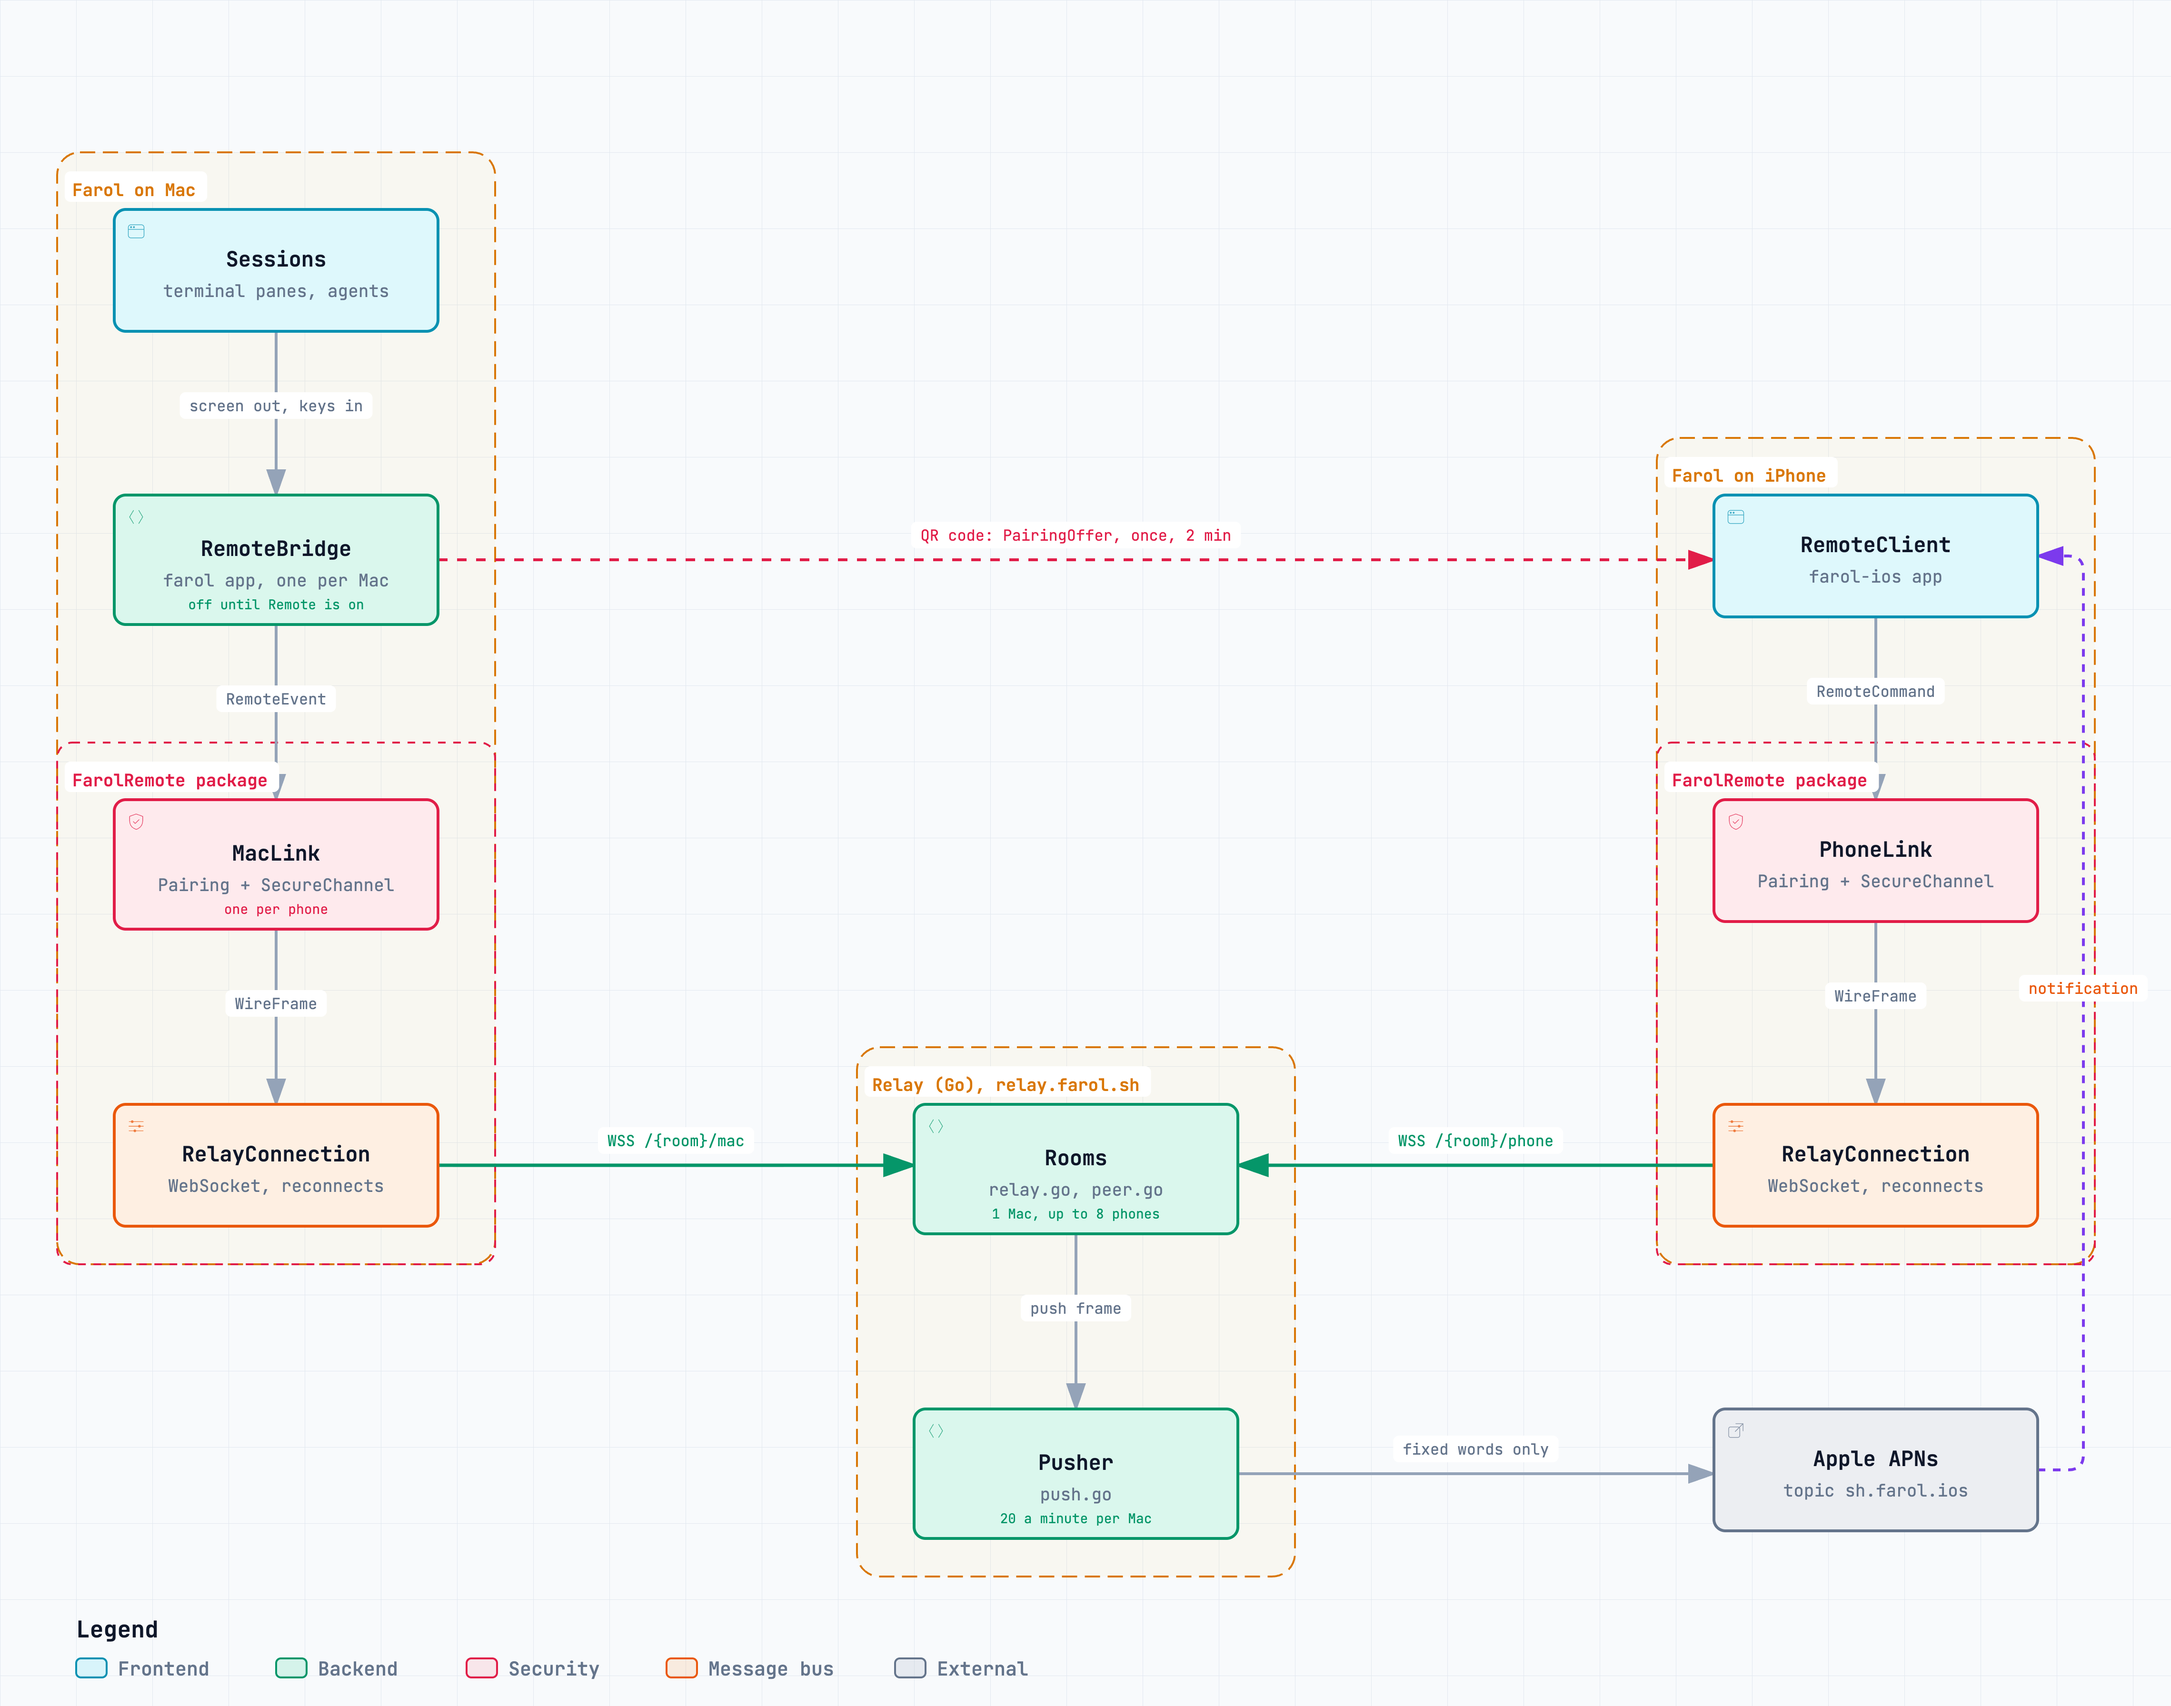
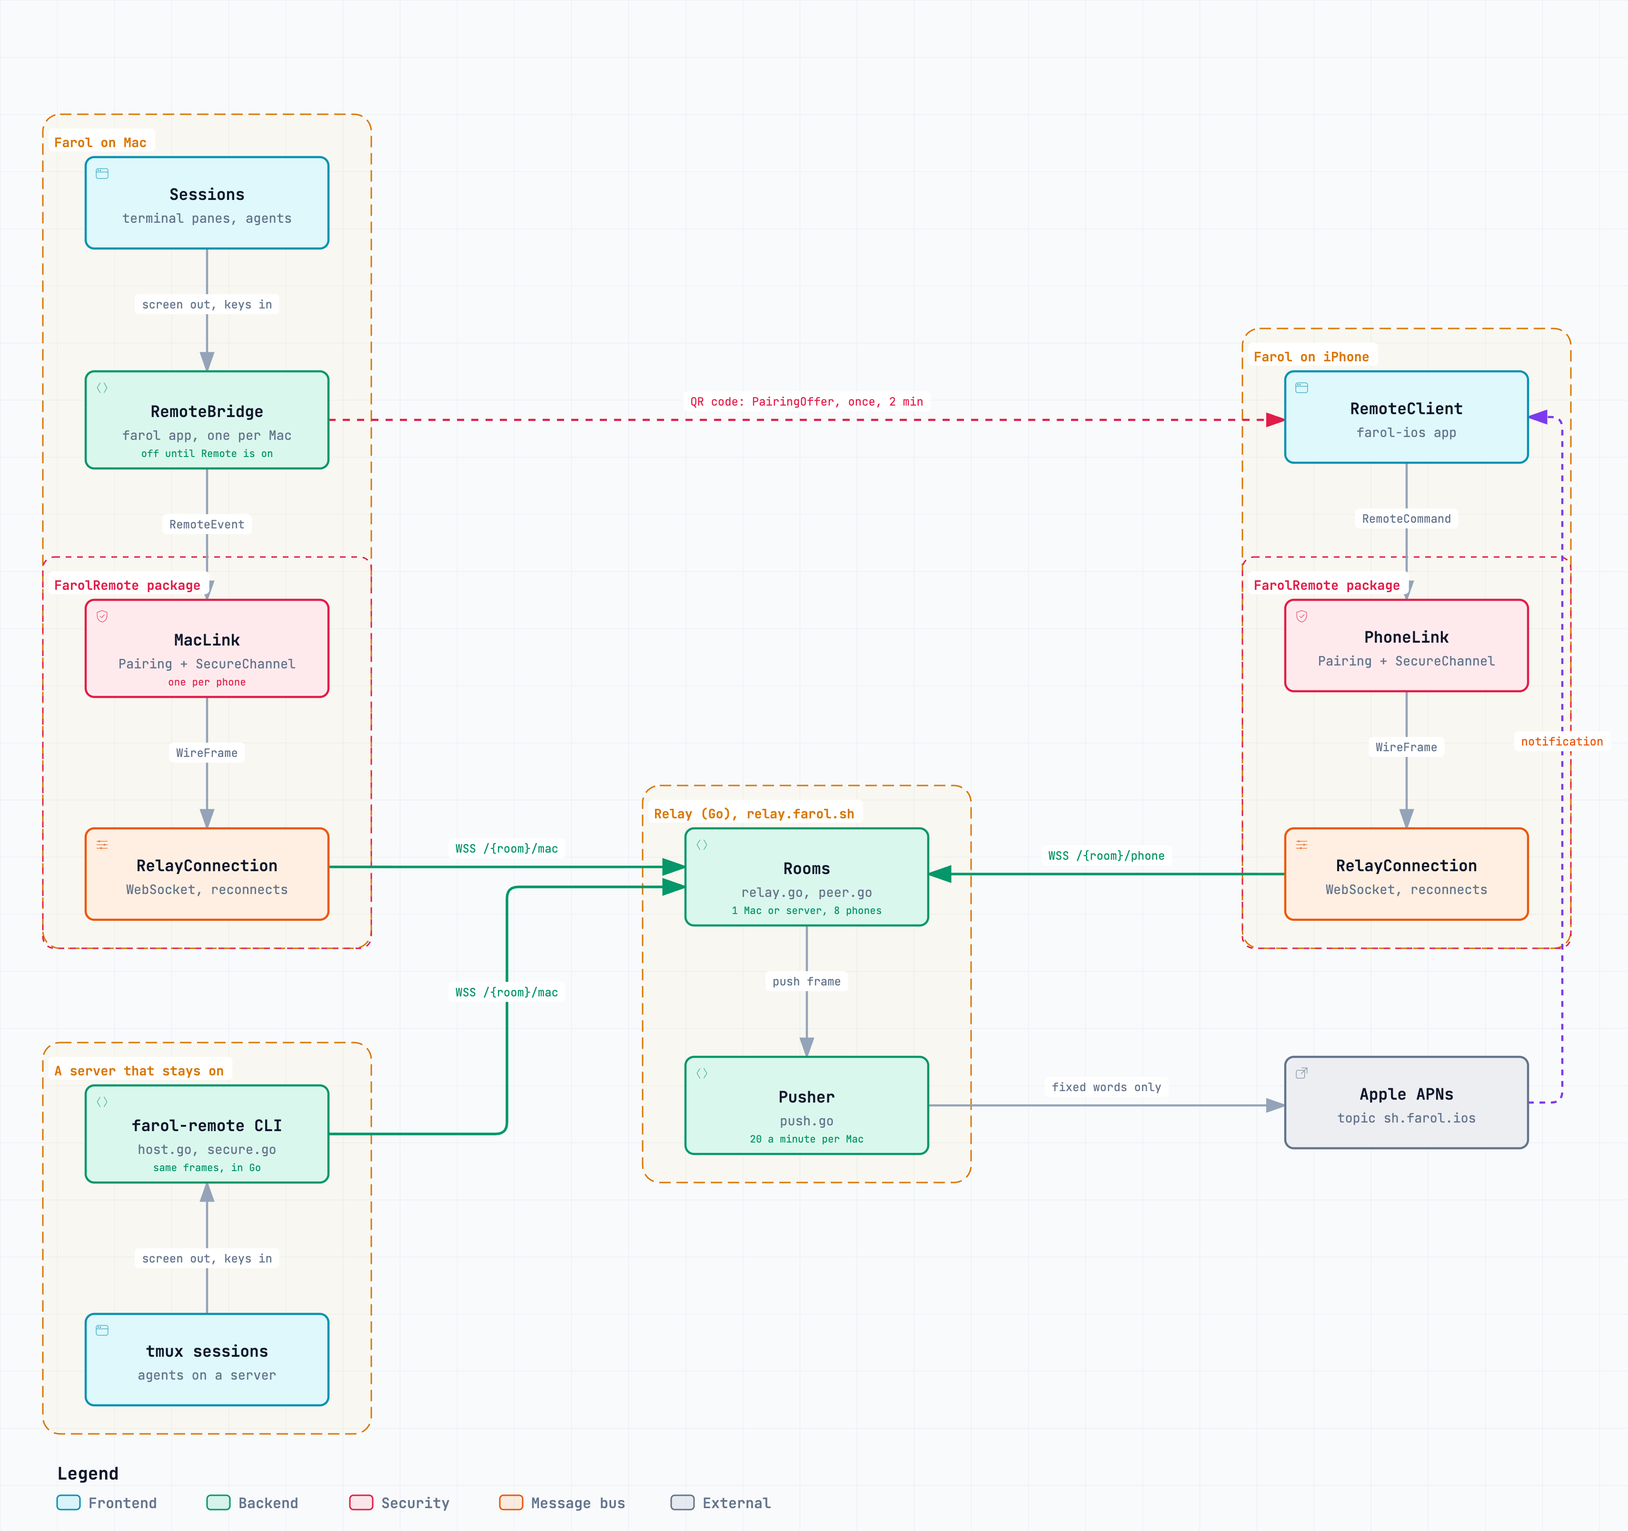
docs: show the server beside the Mac in the architecture picture

diff --git a/README.md b/README.md
@@ -32,7 +32,7 @@ Everything that touches security, in one small place to read.
 
 ![The Mac, the relay and the phone](docs/architecture.png)
 
-A server running `farol-remote` takes the place of the Mac in this picture. The relay and the phone do not tell them apart.
+A server running the `farol-remote` CLI connects the same way a Mac does. The relay and the phone do not tell them apart.
 
 ## How it is kept private
 
